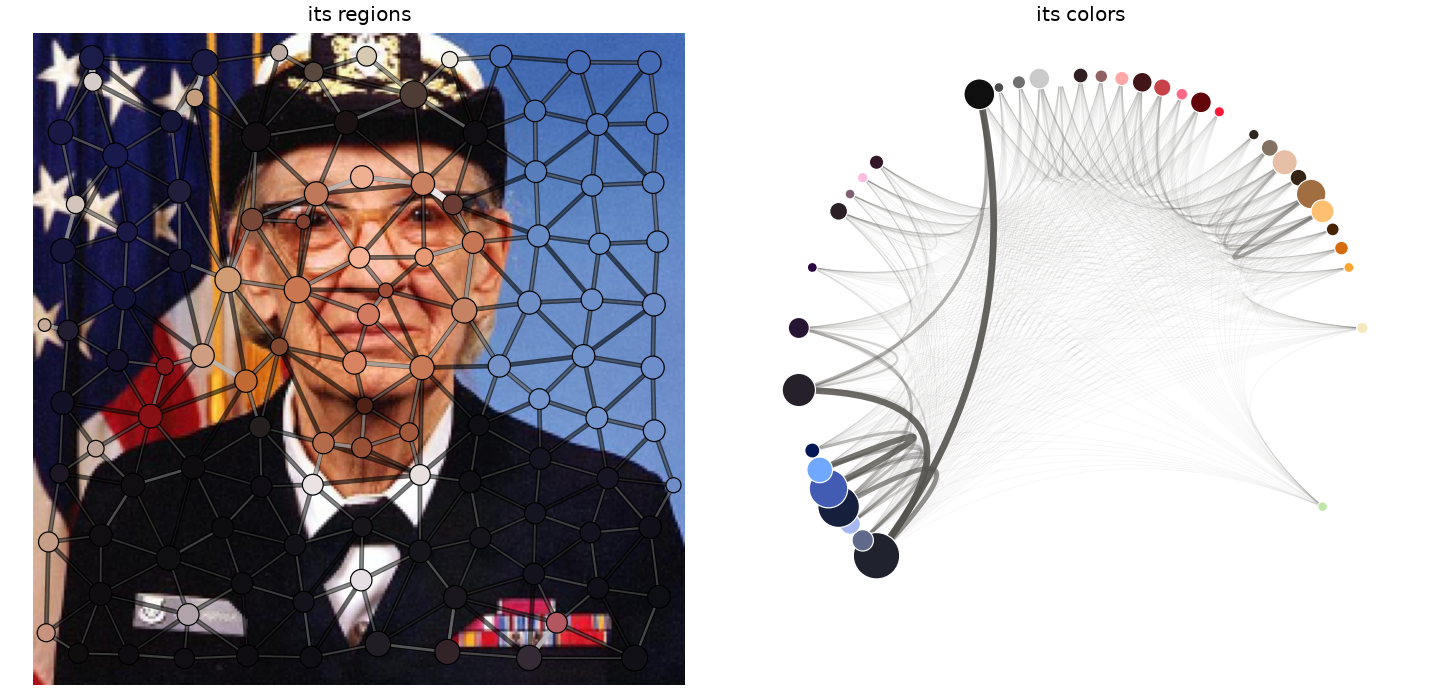
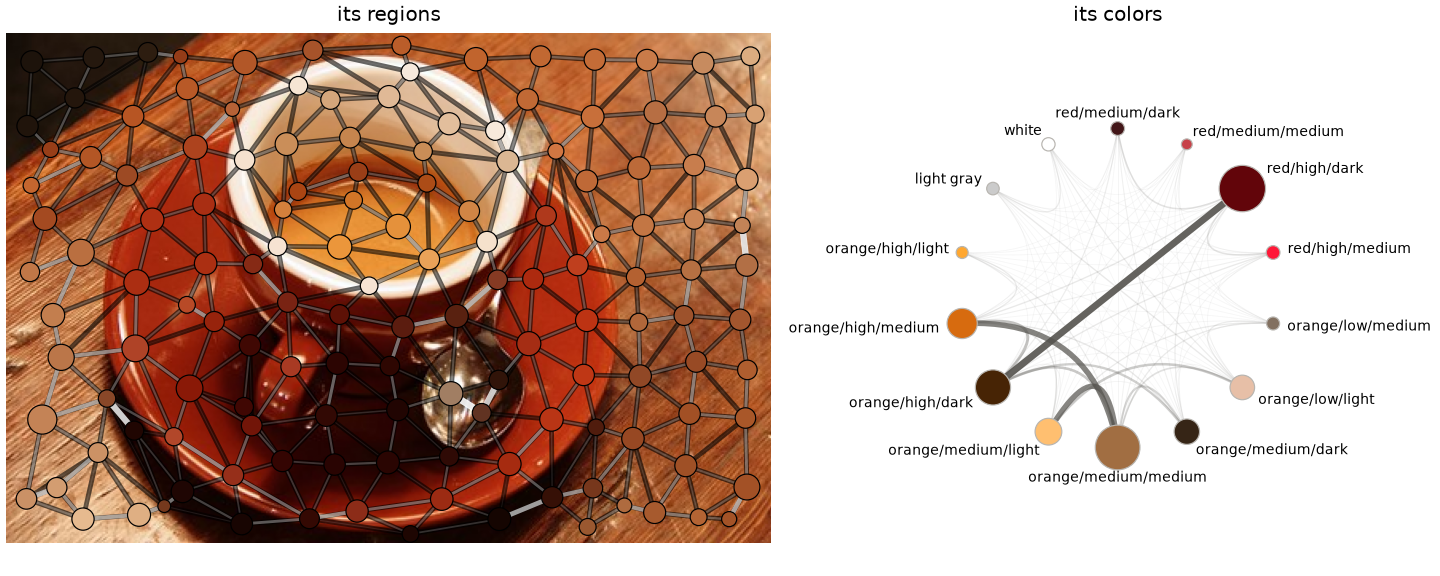
Draw the figures on a CC0 coffee photo

diff --git a/docs/regions/figures.py b/docs/regions/figures.py
@@ -6,21 +6,19 @@ import matplotlib
 
 matplotlib.use("Agg")
 import matplotlib.pyplot as plt
-from matplotlib import cbook
 
 from emoge import data, regions
 
 IMAGES = Path(__file__).parent / "img"
+PHOTO = Path(__file__).parent.parent / "coffee.jpg"  # Rachel Michetti, CC0
 
 
 def superpixels():
     """The same photo cut into superpixels: borders, then filled, crisp and soft."""
-    photo = data.load_image(
-        cbook.get_sample_data("grace_hopper.jpg", asfileobj=False), 256
-    )
-    crisp = regions.superpixels(photo, 120)
-    soft = regions.superpixels(photo, 120, soft=True)
-    figure, axes = plt.subplots(1, 3, figsize=(10.5, 3.9), layout="constrained")
+    photo = data.load_image(PHOTO)
+    crisp = regions.superpixels(photo, 150)
+    soft = regions.superpixels(photo, 150, soft=True)
+    figure, axes = plt.subplots(1, 3, figsize=(10.5, 2.6), layout="constrained")
     regions.plot_regions(photo, crisp, axes[0], numbers=True)
     regions.plot_regions(photo, crisp, axes[1], fill=True)
     regions.plot_regions(photo, soft, axes[2], fill=True, borders=False)

diff --git a/docs/graphs/figures.py b/docs/graphs/figures.py
@@ -6,19 +6,20 @@ import matplotlib
 
 matplotlib.use("Agg")
 import matplotlib.pyplot as plt
-from matplotlib import cbook
 
 from emoge import color, data, graphs, regions
 
 IMAGES = Path(__file__).parent / "img"
+PHOTO = Path(__file__).parent.parent / "coffee.jpg"  # Rachel Michetti, CC0
 
 
 def two_graphs():
     """One photo, two graphs: of its regions over it, of its colors round a circle."""
-    path = cbook.get_sample_data("grace_hopper.jpg", asfileobj=False)
-    photo = data.load_image(path, 256)
-    pieces = regions.superpixels(photo, 120)
-    figure, axes = plt.subplots(1, 2, figsize=(10, 4.8), layout="constrained")
+    photo = data.load_image(PHOTO)
+    pieces = regions.superpixels(photo, 150)
+    figure, axes = plt.subplots(
+        1, 2, figsize=(10, 4), layout="constrained", width_ratios=[3, 2]
+    )
     graphs.plot_graph(
         graphs.region_graph(color.COLIBRI, photo, pieces), axes[0], image=photo
     )
